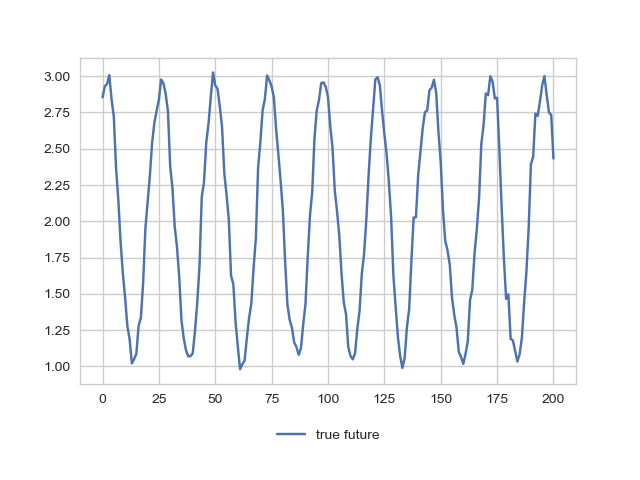
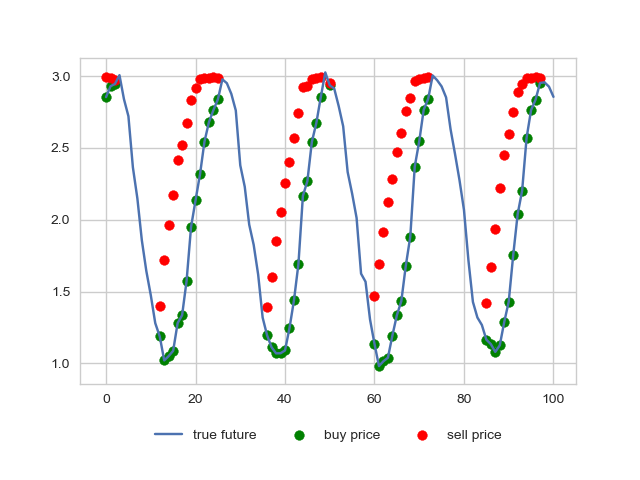
readme added

diff --git a/thesis_code/version1/generating_events_from_known_model.py b/thesis_code/version1/generating_events_from_known_model.py
@@ -6,7 +6,6 @@ sns.set(style="whitegrid")
 import copy
 import os
 import pandas as pd
-
 from enum import Enum
 
 from strategies import *
@@ -149,24 +148,30 @@ def evaluate_model(prob_model: ProbModel, event_function: Callable, strategy: st
         else:
             target_roi += np.max([0, np.max(true_future)*(1-transaction_cost) - true_future[0]*(1+transaction_cost)])
     
-    print(roi, target_roi)
-
     if make_fig:
         plt.plot(context, label='true future')
         legend = True
         for t in range(n_run_steps):
             event = events[t]
-            if event==2:
+            if len(event)==2:
                 buy = event[0]
                 sell = event[1]
                 if legend:
-                    plt.scatter(t+buy[-1], 1, c='g', label='buy')
-                    plt.scatter(t+sell[-1], 1, c='r', label='sell')
+                    if order_type=='market_order':
+                        plt.scatter(t+buy[-1], 2, c='g', label='buy moment')
+                        plt.scatter(t+sell[-1], 2, c='r', label='sell moment')
+                    else: 
+                        plt.scatter(t, buy[1], c='g', label='buy price')
+                        plt.scatter(t, sell[1], c='r', label='sell price')
                     legend = False
                 else:
-                    plt.scatter(t+buy[-1], 1, c='g')
-                    plt.scatter(t+sell[-1], 1, c='r')
-            
+                    if order_type=='market_order':
+                        plt.scatter(t+buy[-1], 2, c='g')
+                        plt.scatter(t+sell[-1], 2, c='r')
+                    else:
+                        plt.scatter(t, buy[1], c='g')
+                        plt.scatter(t, sell[1], c='r')
+                
         plt.legend(loc=9, bbox_to_anchor=(0.5, -0.1), ncol=3)
         plt.subplots_adjust(bottom=0.2)
         plt.savefig('example'+str(prob_model.seed)+'.png')
@@ -192,11 +197,11 @@ def run(N = 10, show=True):
     x_noise = 0.1
     v_noise = 0.08
     m_noise = 0.05
-    reduce_risk = 1.0
+    reduce_risk = 0.0
     transaction_cost = 0.02
-    output_seq_len = 10
+    output_seq_len = 5
     strategy = 1
-    order_type = 2
+    order_type = 1
 
     ROI = []
     TARGET_ROI = []
@@ -208,7 +213,7 @@ def run(N = 10, show=True):
             event_function=make_buy_sell_events,
             strategy = str(strategies(strategy).name),
             n_run_steps = 200, 
-            n_simulations = 500,
+            n_simulations = 100,
             n_eval_steps = output_seq_len, 
             transaction_cost = transaction_cost,
             reduce_risk = reduce_risk,
@@ -223,8 +228,7 @@ def run(N = 10, show=True):
 
 if __name__ == '__main__':
 
-
-    run(N=10, show=True)
+    run(N=10, show=False)
 
 
 

diff --git a/thesis_code/version2/generating_events_from_known_model.py b/thesis_code/version2/generating_events_from_known_model.py
@@ -173,7 +173,7 @@ def run(N = 10, show=True):
     x_noise = 0.1
     v_noise = 0.08
     m_noise = 0.05
-    reduce_risk = 0.1
+    reduce_risk = 0.0
     transaction_cost = 0.02
     output_seq_len = 5
     strategy = 1
@@ -188,7 +188,7 @@ def run(N = 10, show=True):
             event_function=make_buy_sell_events,
             strategy = str(strategies(strategy).name),
             n_run_steps = 200, 
-            n_simulations = 500,
+            n_simulations = 100,
             n_eval_steps = output_seq_len, 
             transaction_cost = transaction_cost,
             reduce_risk = reduce_risk,
@@ -202,8 +202,7 @@ def run(N = 10, show=True):
 
 if __name__ == '__main__':
 
-
-    run(N=10, show=True)
+    run(N=10, show=False)
 
 
 

diff --git a/thesis_code/README.md b/thesis_code/README.md
@@ -1,0 +1,48 @@
+# The purpose
+
+For a stochastic autoregressive model, find a method to convert the sampled roll-outs into buy/sell/hold decisions.
+The method is validated by computing the total return on investment. 
+
+The stochastic autoregressive model used for simulation is a harmonic oscillator. 
+
+To be runned are the run functions in generate_events_from_known_model.py
+
+I would say for now use version 2 (explained below)
+
+## Version 1: this version plans ahead, by finding the best buy and sell moment in the next N steps. Thus it ensures there is a buy AND sell moment in the rolled out future. So high frequency trading. 
+
+Two different strategy types:
+    * now_or_never: at each tick you can buy, or not, but you can not postpone this 
+    * if_you_do_it_do_it_good: at each tick you can buy, or not, or buy later
+
+Two different order types:
+    * market_order: place two orders, one with a time stamp to buy and one with a time stamp to sell
+    * limit_order: place two orders, one with a price to buy and one with a price to sell
+
+The risk of the price being lower then expected can be reduced by underestimating the roll-outs
+
+### example results:
+- mean of 10 runs, each run has 200 ticks and at each tick 100 roll-outs:
+    - now_or_never and market_order: mean roi:  52.31 , mean target roi:  43.05
+    - now_or_never and limit_order: mean roi:  20.658, mean target roi:  52.357
+    - if_you_do_it_do_it_good and market_order: mean roi:  27.461, mean target roi:  89.967
+    - if_you_do_it_do_it_good and limit_order: mean roi:  -87.231, mean target roi:  105.919
+
+
+## Version 2: this version makes decisions on the go (it does buys without knowing if it can sell later)
+
+strategy: 
+
+- for each future, compute expected return
+- compute mean expected return
+    * <= 0, sell
+    * => current_price + transaction_cost, buy
+    * else hold
+
+- risk can be reduced by replacing the expected return with the expected shortfall
+
+
+### example results:
+ - mean of 10 runs, each run has 200 ticks and at each tick 100 roll-outs:
+    mean roi:  80.59
+    mean target roi:  78.73
